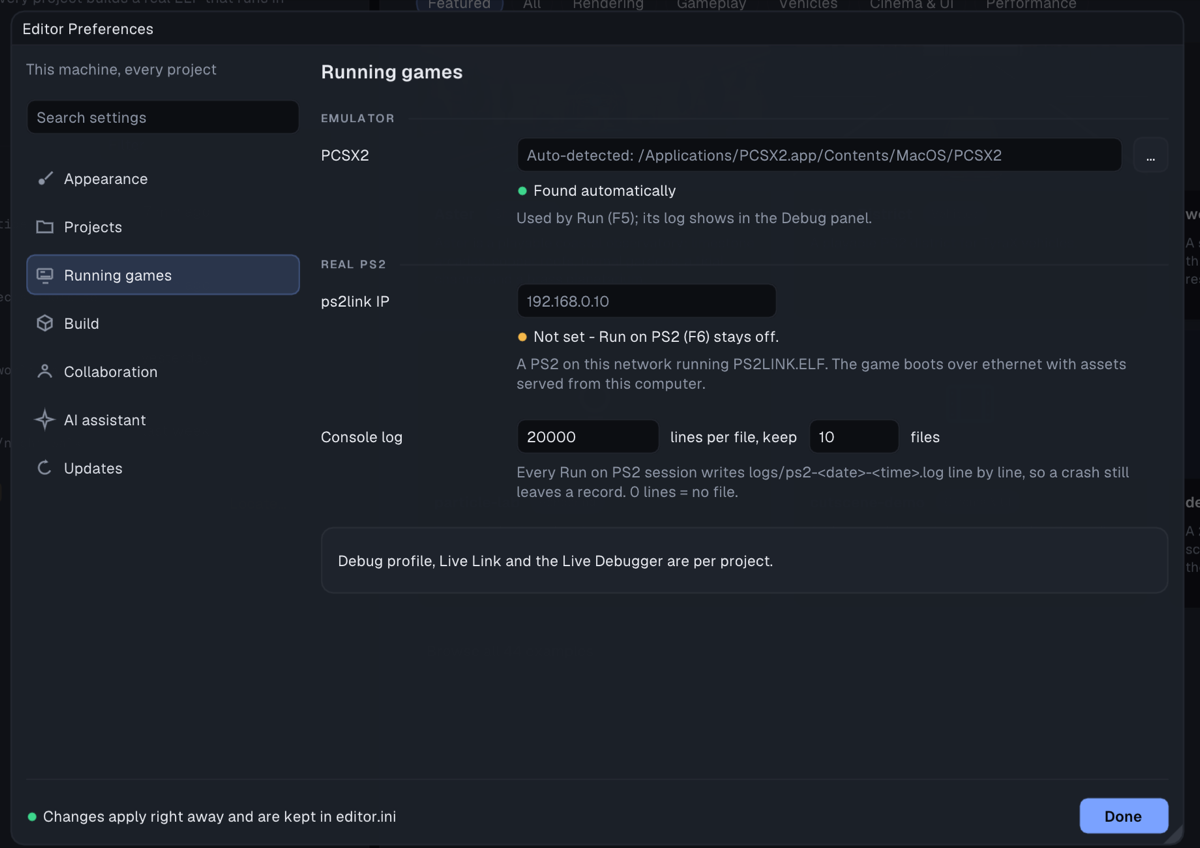
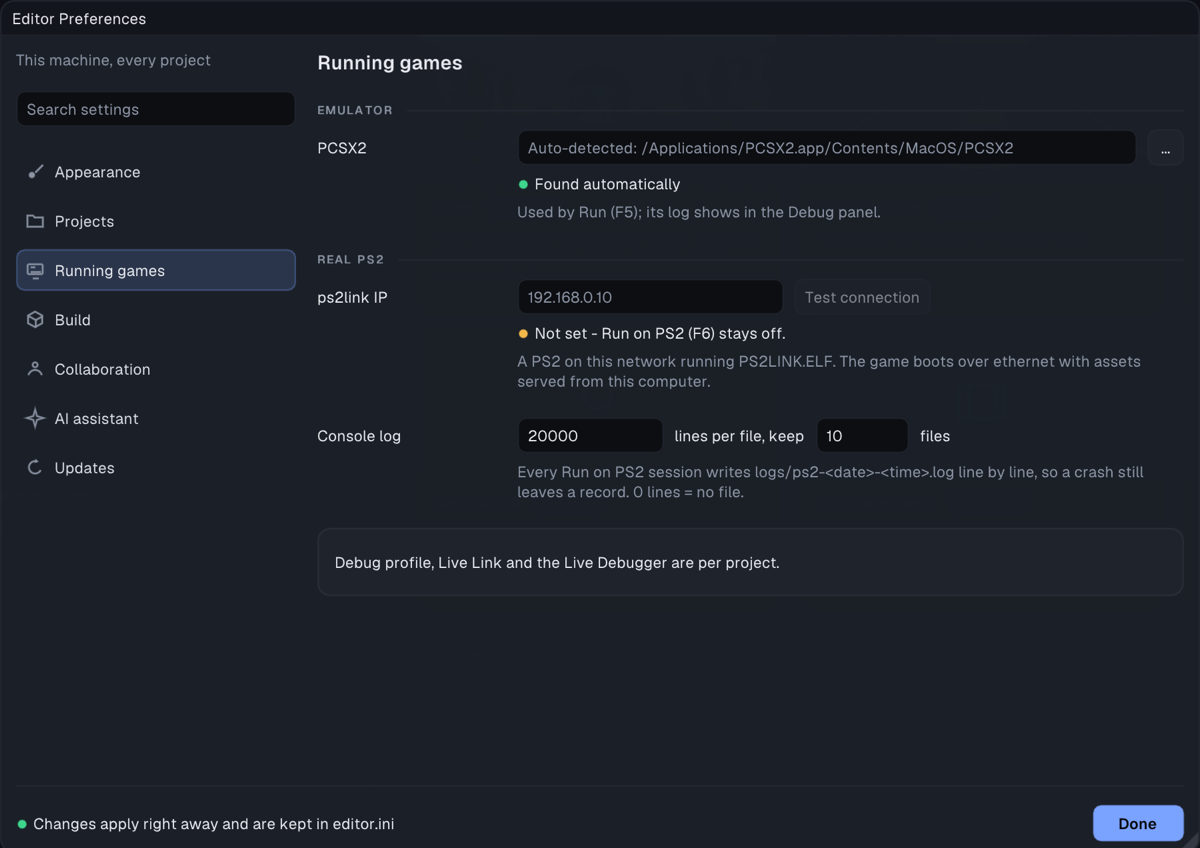
Preferences: ps2link "Test connection"
Edit > Preferences > Running games > ps2link IP gets a Test connection
button (Test connection###ps2_test): a TCP connect to tcp/18193 - the
file-request socket ps2link listens on and every ps2client command connects
to the same way - with a 2 s timeout, closed again without sending a byte.
No deploy, no reset. The verdict sits under the field until the IP changes:
"ps2link answered at <ip> (N ms)" / "No answer within 2 s - is the PS2 on,
running PS2LINK.ELF, at this IP?" / "Something at <ip> refused the
connection - not ps2link". It runs on std::async (the UI never blocks) and is
disabled while a game runs on the console (Runner::ps2ClientAlive - its file
server holds the connection).

wire::probeTcp(host, port, timeoutMs) wraps the TCP transport's existing
client connect (non-blocking connect + poll, Winsock and BSD alike), so no
new socket code and no platform.cpp change: the Winsock half is the same code
path the collaboration client already uses, but it is unbuilt here.

Verified (macOS) with --ui-script on a copy of examples/cube, scratch
XDG_CONFIG_HOME with ps2LinkIp set in editor.ini: a python listener on
127.0.0.1:18193 -> "ps2link answered at 127.0.0.1 (5 ms)", the listener saw
one connection and 0 bytes; no listener -> "refused - not ps2link";
10.255.255.1 -> "No answer within 2 s". Retook docs/img/editor-preferences.png
(no project, fresh config, as before). Not verified against a real console
running ps2link, nor on Windows/Linux.

diff --git a/src/app.cpp b/src/app.cpp
@@ -20238,9 +20238,49 @@ void App::drawEditorPreferencesModal() {
         ImGui::SetNextItemWidth(scaled(200));
         ImGui::InputTextWithHint("##PS2 (ps2link) IP", "192.168.0.10", prefPs2Ip_, sizeof(prefPs2Ip_));
         if (ImGui::IsItemDeactivatedAfterEdit()) apply();
+        // Test connection: is ps2link listening there? A TCP connect to its
+        // file-request port, nothing sent - not a deploy, not a reset.
+        const bool testing = ps2TestJob_.valid();
+        if (testing && ps2TestJob_.wait_for(std::chrono::seconds(0)) == std::future_status::ready) {
+            const std::string err = ps2TestJob_.get();
+            const int ms = (int)((ImGui::GetTime() - ps2TestStarted_) * 1000.0);
+            if (err.empty()) {
+                ps2TestResult_ = "ps2link answered at " + ps2TestIp_ + " (" + std::to_string(ms) + " ms)";
+                ps2TestKind_ = 0;
+            } else if (err.find("timed out") != std::string::npos) {
+                ps2TestResult_ = "No answer within 2 s - is the PS2 on, running PS2LINK.ELF, at this IP?";
+                ps2TestKind_ = 2;
+            } else if (err.find("refused") != std::string::npos) {
+                ps2TestResult_ = "Something at " + ps2TestIp_ + " refused the connection - not ps2link";
+                ps2TestKind_ = 2;
+            } else {
+                ps2TestResult_ = "Could not test: " + err;
+                ps2TestKind_ = 2;
+            }
+        }
+        ImGui::SameLine();
+        const bool gameOnConsole = runner_.ps2ClientAlive();
+        ImGui::BeginDisabled(!prefPs2Ip_[0] || ps2TestJob_.valid() || gameOnConsole);
+        if (ImGui::Button(ps2TestJob_.valid() ? "Testing...###ps2_test" : "Test connection###ps2_test")) {
+            ps2TestIp_ = prefPs2Ip_;
+            ps2TestResult_.clear();
+            ps2TestStarted_ = ImGui::GetTime();
+            ps2TestJob_ = std::async(std::launch::async, [ip = ps2TestIp_] {
+                return wire::probeTcp(ip, 18193, 2000);
+            });
+        }
+        ImGui::EndDisabled();
+        if (ImGui::IsItemHovered(ImGuiHoveredFlags_AllowWhenDisabled))
+            ImGui::SetTooltip("%s", gameOnConsole
+                                        ? "A game is running on the console - its file server holds ps2link"
+                                        : "Checks that ps2link listens at this address (tcp/18193).\n"
+                                          "Nothing is deployed and the console is not reset.");
         if (!prefPs2Ip_[0]) {
             ImGui::SetCursorPosX(colX);
             ui::StatusLine(1, "Not set - Run on PS2 (F6) stays off.");
+        } else if (!ps2TestResult_.empty() && ps2TestIp_ == prefPs2Ip_) {
+            ImGui::SetCursorPosX(colX);
+            ui::StatusLine(ps2TestKind_, ps2TestResult_.c_str());
         }
         rowDesc("A PS2 on this network running PS2LINK.ELF. The game boots over ethernet with assets served "
                 "from this computer.");

diff --git a/src/app.hpp b/src/app.hpp
@@ -5,6 +5,7 @@
 #include <filesystem>
 #include <array>
 #include <functional>
+#include <future>
 #include <map>
 #include <memory>
 #include <set>
@@ -3849,6 +3850,14 @@ private:
     bool openEditorPrefsPopup_ = false;
     char prefEmulatorPath_[512] = "";  // PCSX2 exe path (auto-detect if empty)
     char prefPs2Ip_[64] = "";          // ps2link IP for Run on PS2
+    // Edit > Preferences > ps2link "Test connection": a TCP connect to
+    // tcp/18193 on a worker (wire::probeTcp), never a deploy. The verdict is
+    // kept with the IP it was for, so editing the field drops it.
+    std::future<std::string> ps2TestJob_;
+    std::string ps2TestIp_;      // the address the running/last test asked
+    std::string ps2TestResult_;  // "" none yet; else the verdict line
+    int ps2TestKind_ = 3;        // StatusLine kind of the verdict
+    double ps2TestStarted_ = 0.0;
     char prefToolchainImage_[256] = "";  // Docker image games compile in ("" = compose default)
     int prefBuildBackend_ = 0;             // 0 native, 1 Docker fallback
     char prefDefaultProjectsDir_[512] = "";  // default parent folder for new projects

diff --git a/src/wire.hpp b/src/wire.hpp
@@ -138,4 +138,13 @@ std::unique_ptr<Transport> makeWebSocketTransport(std::string httpPage = {});
 // Local IPv4 addresses (for "hosting on <ip>:<port>" UI), loopback excluded.
 std::vector<std::string> localIPv4();
 
+// Is something accepting TCP connections at host:port? Connects (blocking the
+// caller up to timeoutMs) and closes again without sending a byte. "" = it
+// answered; otherwise "connection timed out", "connection refused", ... -
+// the TCP transport's connect() error. Edit > Preferences' ps2link "Test
+// connection" (ps2link listens on tcp/18193, which every ps2client command
+// connects to the same way, so this asks nothing of the console a command
+// would not).
+std::string probeTcp(const std::string& host, uint16_t port, int timeoutMs);
+
 }  // namespace wire

diff --git a/src/wire.cpp b/src/wire.cpp
@@ -776,6 +776,15 @@ std::unique_ptr<Transport> makeTcpTransport() {
     return std::make_unique<TcpTransport>();
 }
 
+std::string probeTcp(const std::string& host, uint16_t port, int timeoutMs) {
+    // The transport's own client connect: same non-blocking connect + poll on
+    // both socket stacks, closed when the transport goes out of scope.
+    std::unique_ptr<Transport> t = makeTcpTransport();
+    std::string err = t->connect(host, port, timeoutMs);
+    t->close();
+    return err;
+}
+
 std::unique_ptr<Transport> makeWebSocketTransport(std::string httpPage) {
     return std::make_unique<TcpTransport>(&httpPage);
 }

diff --git a/docs/editor-preferences.md b/docs/editor-preferences.md
@@ -8,7 +8,7 @@ in `editor.ini` in the editor's config folder and are shared by every project;
 project settings are in *Project Preferences* instead.
 
 ![Editor Preferences on the Running games page: the auto-detected PCSX2 path,
-the ps2link IP with its "not set" state, the console log limits, and Done.](img/editor-preferences.png)
+the ps2link IP with its "not set" state and Test connection, the console log limits, and Done.](img/editor-preferences.png)
 
 ## One rule: changes apply at once
 
@@ -29,10 +29,9 @@ every page by name and description (try `ip`, `docker`, `model`).
 |---|---|
 | **Appearance** | The theme as cards with their colours (applies on click - see [the editor's look](editor-theme.md)); *Use the native title bar* (macOS and Windows; a *Restart TyraX to apply* badge until the next start); the interface font and scale in use. |
 | **Projects** | *Default folder* for New Project and for opened examples (empty = `~/TyraProjects`, shown in the field). |
-| **Running games** | *PCSX2*: empty means auto-detect, and the field shows what was found ("Auto-detected: ...") or that nothing was; a configured path that does not exist is flagged. *ps2link IP* for Run on PS2 (F6) - [setup](ps2link-setup.md). *Console log*: lines per session file and how many files to keep. |
+| **Running games** | *PCSX2*: empty means auto-detect, and the field shows what was found ("Auto-detected: ...") or that nothing was; a configured path that does not exist is flagged. *ps2link IP* for Run on PS2 (F6) - [setup](ps2link-setup.md) - with **Test connection**, which says whether ps2link listens at that address (answered in N ms / no answer within 2 s / refused - not ps2link) without deploying anything. *Console log*: lines per session file and how many files to keep. |
 | **Build** | *Build backend*: Native (default) or Docker fallback. The Docker-only *Compiler image* and *Image name* appear only when the fallback is picked ([toolchain image](toolchain-image.md)). |
 | **Collaboration** | *Display name* in [live sessions](collaboration.md) (empty = your system user name) and the *Joined-project cache* folder. |
 | **AI assistant** | *Backend*, *Model* (or Custom with a free *Model id*) and *Extended thinking*, used by the [AI Assistant](ai-chat.md) and [Generate with AI](ai-flow-graph.md). |
 | **Updates** | *Check for updates at startup*, *Check now*, and *Stop skipping* for a skipped version ([updates](updates.md)). |
 
-Not here yet: a *Test connection* probe for the ps2link IP.

diff --git a/docs/ps2link-setup.md b/docs/ps2link-setup.md
@@ -40,6 +40,7 @@ tools/ps2link/build.ps1 -Low -NoUsb -Packed
    means the wrong build — see the [troubleshooting table](#when-it-does-not-work).
 4. **Point the editor at it** — *Edit > Preferences > Running games
    > ps2link IP*. Machine-global, not project data, so you do this once.
+   **Test connection** next to it checks the address before you deploy.
 5. **Run with F6**, stop with the top bar's Stop. That is it.
 
 Two things worth knowing before you hit a wall:
@@ -405,6 +406,18 @@ the baseline launch, and are excluded from the six cycles.
 a **machine-global** editor setting (`editor.ini`), shared by every project —
 not project data, so it never travels in a `.tyra` file. Leave it empty to
 disable the F6 path entirely.
+
+**Test connection** beside the field opens a TCP connection to `tcp/18193` -
+the file-request socket ps2link listens on, which every `ps2client` command
+connects to the same way - waits up to 2 s, and closes it again without
+sending a byte. Nothing is deployed and the console is not reset. It answers
+one of three things: *ps2link answered (N ms)*; *no answer within 2 s* (wrong
+IP, console off or not in ps2link, or a network in between); *refused* (a
+machine is at that address but nothing listens there - not ps2link). It is
+greyed out while a game is running on the console, whose file server holds the
+connection. A green answer proves the TCP half only: the console's log comes
+back over UDP 18194, which the PC's firewall must still let in (see the ports
+table below).
 
 Headless, the IP can also come from the command line:
 
